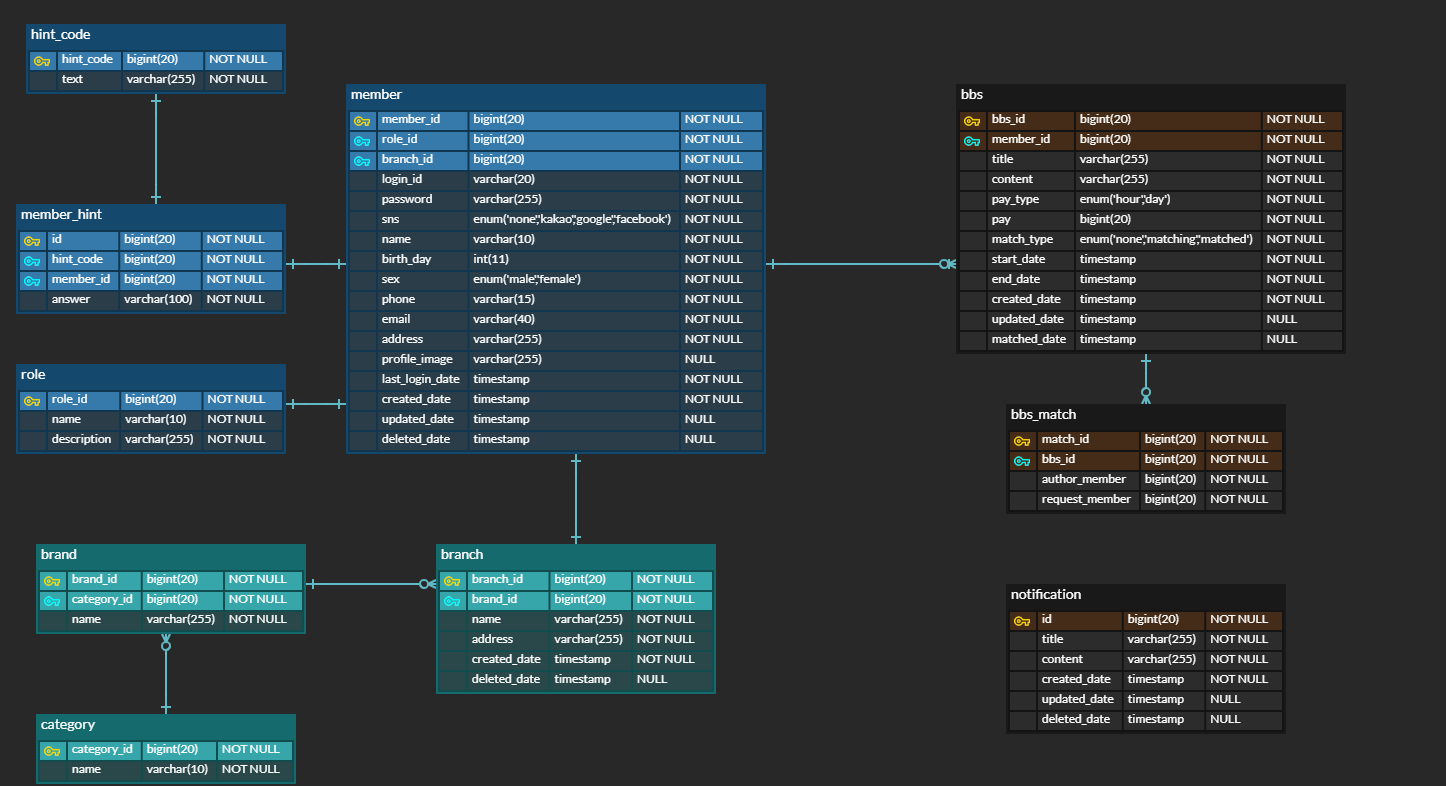
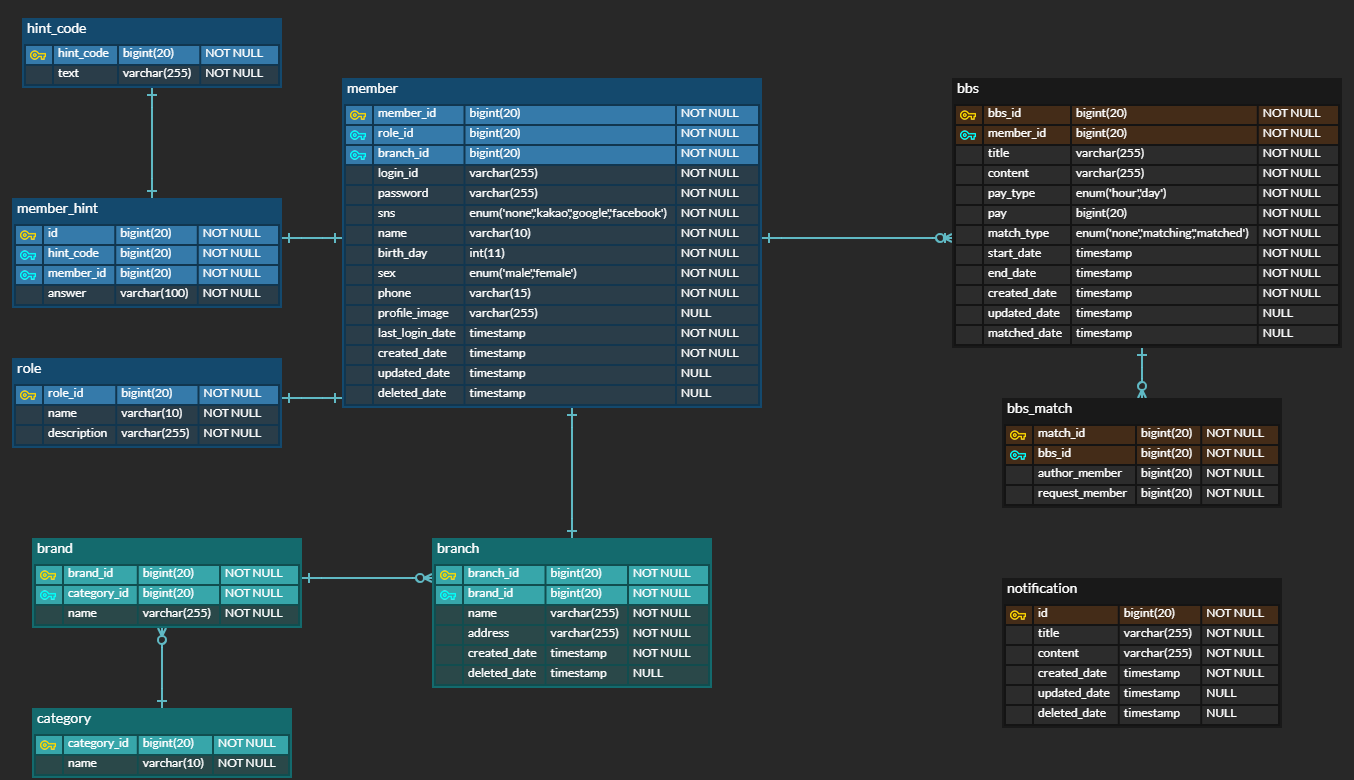
erd수정, rest설계 수정

diff --git a/RestAPIList.md b/RestAPIList.md
@@ -5,13 +5,12 @@
 - 아이디 중복체크 (requestId = 사용하고자할 ID)
 `POST /customers/{requestId}`
 
-
 - 회원가입
 `POST /members/`
 ```JSON
 {
     "member": {
-        "loginId": "ohjang",
+        "loginId": "ohjang@daeta.com",
[1 lines of base64/hex data omitted]
         "sns": "None", // None, Kakao, Google, Facebook
         "name": "오장원",
@@ -21,11 +20,9 @@
         "branchId": 1,
         "role": {
             "id": 1
-        },
-        "email": "sda362002@gmail.com",
-        "address": "서울시 대타구 대타로 대타길 대타"
+        }
     },
-    "passwordId" : 1, // 힌트 시퀀스 번호
+    "hintId" : 1, // 힌트 시퀀스 번호
     "answer": "안녕" // 힌트 답변
 }
 ```
@@ -33,29 +30,41 @@
 - 사용자 정보 (memberId = 로그인할 때 들어오는 json의 id 속성)
 `GET /members/{memberId}`
 
-- 탈퇴 (미구현)
+- 탈퇴
 `DELETE /members/{memberId}`
 
-- 로그인
-`POST /members/{loginId}`
-키          value
-passWord    비밀번호
+- 로그인 
+`POST /members/{loginId}`  
+    - 이메일 로그인
+        - password 필요 (sha256 암호화)
+    - 소셜 로그인
+        - password X
 
-- 사용자 정보 수정 (미구현)
+- 사용자 정보 수정 (수정할 내용 정하기)
 `PUT /members/{memberId}`
 
 - 찜하기 (미구현)
 `PUT /members/{memberId}/favorite`
 
-- 계정 찾기
-
-
-- 비밀번호 찾기
+- 계정 찾기 (계정 찾는 조건)
 
 
 - 비밀번호 수정
+`PUT /members/{loginId}/password`
+    - password
+
+- 지점 신청
 
 
+- 로그인 토큰 파기 (로그아웃)
+
+
+- 힌트 가져오기
+`GET /members/{memberId}/hint`
+
+- 답변 확인
+`POST /members/{memberId}/answer`  
+    - answer
 
 ## 게시글 관련
 
